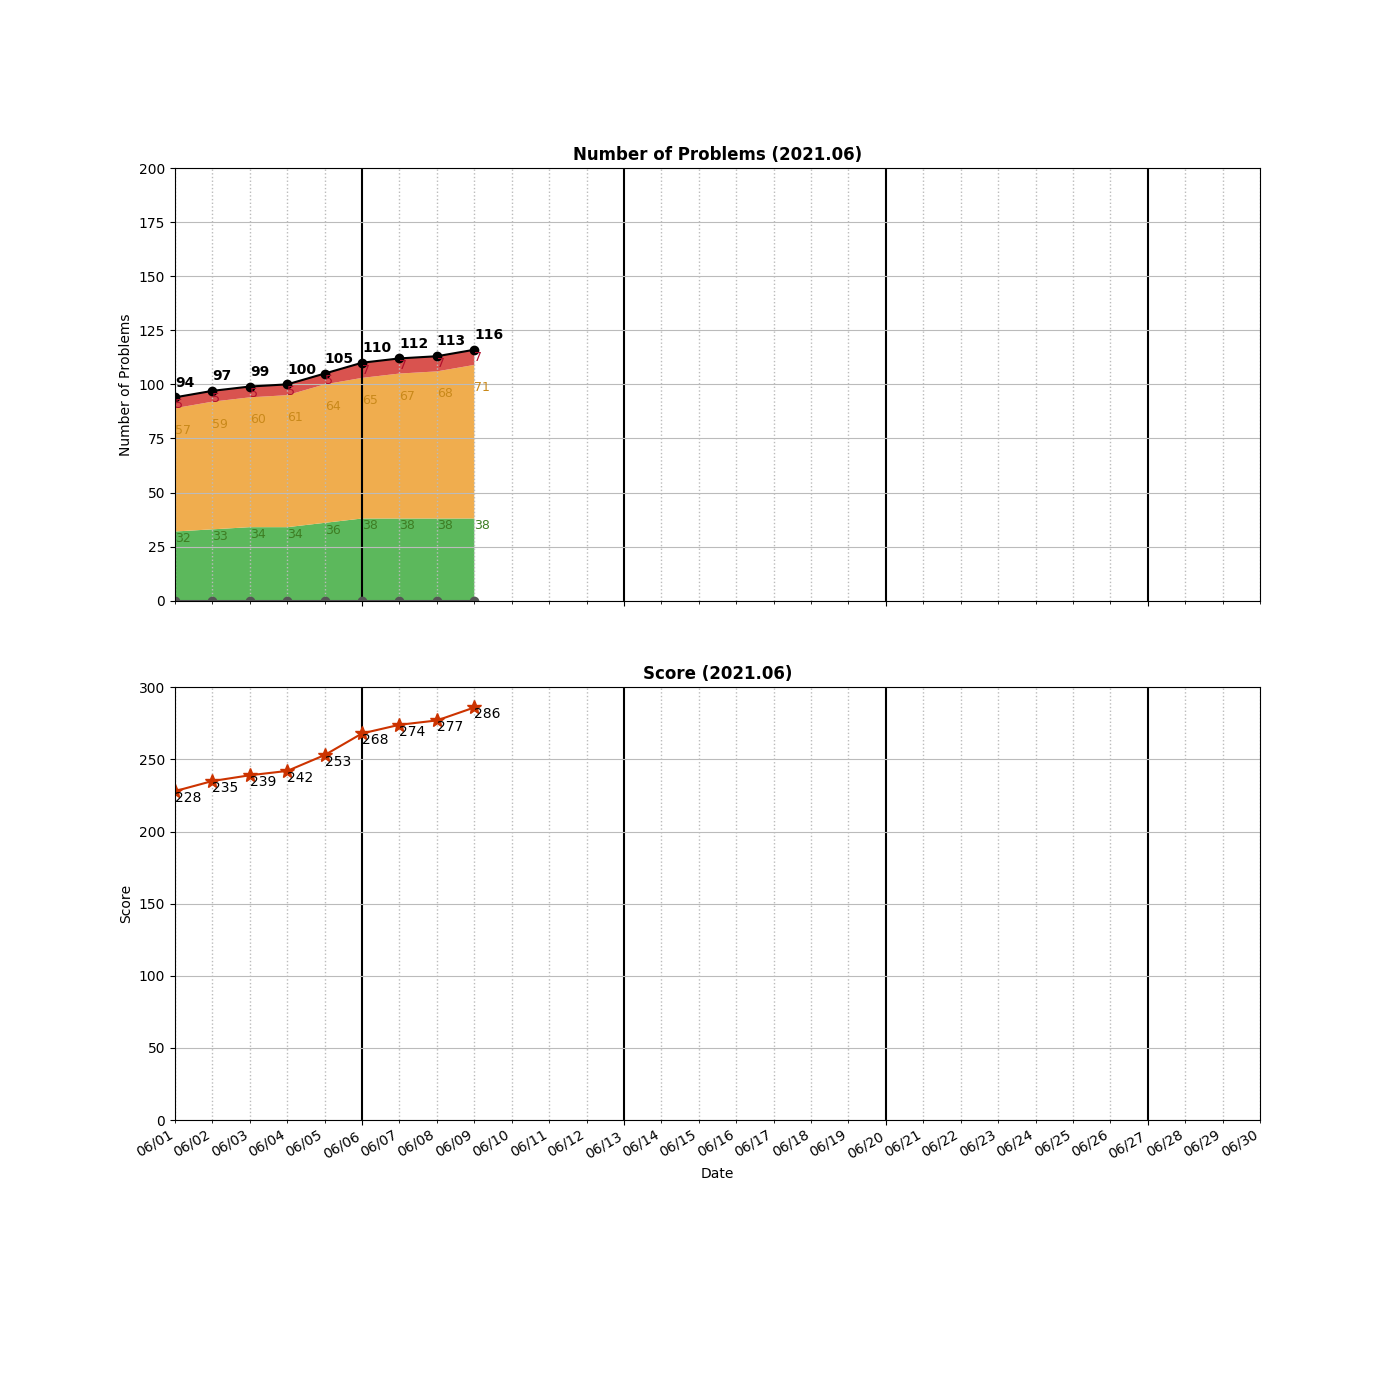
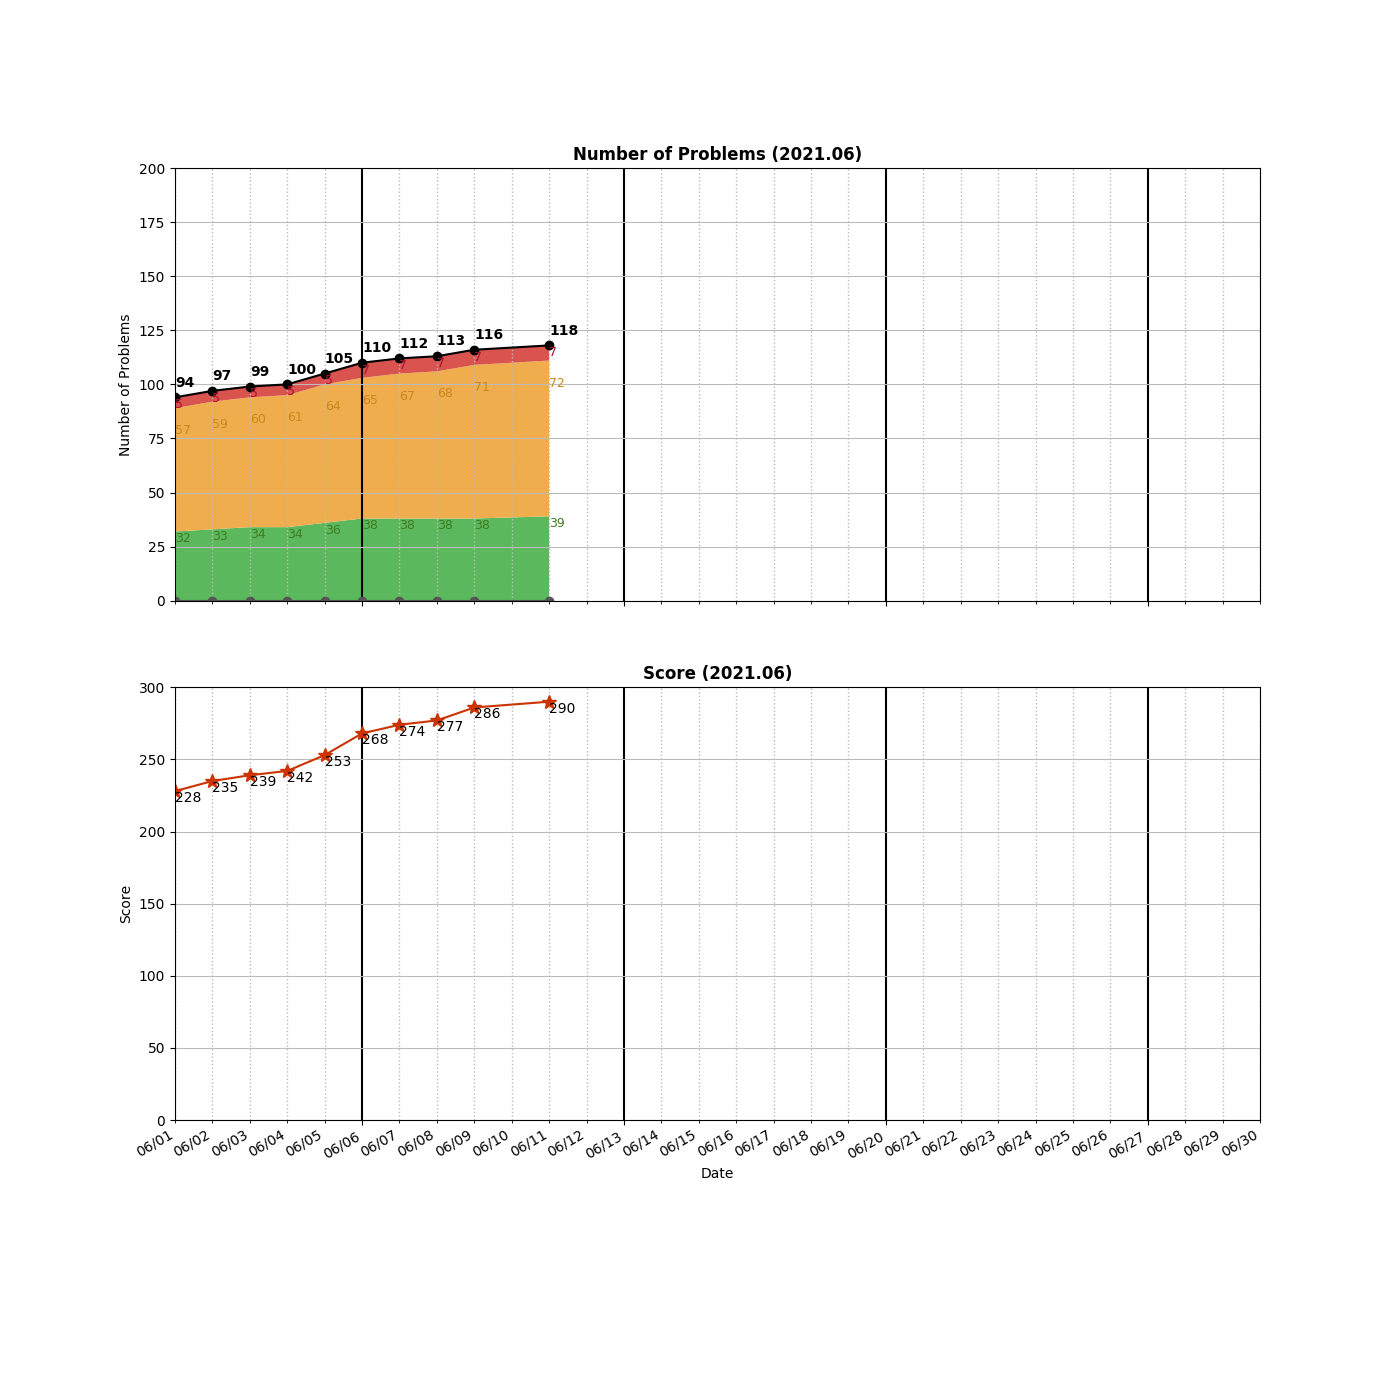
Added __0576__Out of Boundary Paths.py

Changed region(s): [[0.3379, 0.2457, 0.3993, 0.43], [0.3686, 0.4914, 0.3993, 0.5221]]

diff --git a/algo/DFS/__0200__Number of Islands.py b/algo/DFS/__0200__Number of Islands.py
@@ -1,9 +1,49 @@
 class Solution:
-
+    
     # (1) Traversal: BFS
-    # (2) Status: visited set
-    # [O(m*n), 10%][O(m*n), 36%]
+    # (2) Status: change grid to 0 after traversal
+    # [O(m*n) / O(m*n) -> 56% / 35%]
     def numIslands(self, grid: List[List[str]]) -> int:
+        print("BFS + change grid to 0 after traversal")
+        if not grid or not grid[0]:
+            return 0
+        
+        #visited = set()
+        self.count = 0
+        
+        for i in range(len(grid)):
+            for j in range(len(grid[0])):
+                if grid[i][j] == "1":
+                    #visited.add((i, j))
+                    self.bfs(grid, i, j)
+        return self.count 
+                    
+    def bfs(self, grid, i, j):
+        self.count += 1 
+        deq = collections.deque([(i, j)])
+        #print(i, j)
+        while deq:
+            cur = deq.popleft()
+            for d in [(1, 0), (-1,0), (0, 1), (0,-1)]:
+                nextI = cur[0] + d[0]
+                nextJ = cur[1] + d[1]
+                # if (nextI, nextJ) in visited:
+                #     continue
+                if not(0 <= nextI < len(grid) and 0 <= nextJ < len(grid[0])):
+                    continue
+                if grid[nextI][nextJ] != "1":
+                    continue
+                grid[nextI][nextJ] = "0"
+                #print(deq)
+                #visited.add((nextI, nextJ))
+                deq.append((nextI, nextJ)) 
+                
+    # ========================================
+    # (1) Traversal: BFS
+    # (2) Status: use visited set
+    # [O(m*n) / O(m*n) -> 5% / 8%]
+    def numIslands(self, grid: List[List[str]]) -> int:
+        print("BFS + use visited set")
         if not grid or not grid[0]:
             return 0
         
@@ -14,10 +54,10 @@ class Solution:
             for j in range(len(grid[0])):
                 if grid[i][j] == "1" and (i, j) not in visited:
                     visited.add((i, j))
-                    self.bfs(grid, i, j, visited)
+                    self.bfs2(grid, i, j, visited)
         return self.count 
                     
-    def bfs(self, grid, i, j, visited):
+    def bfs2(self, grid, i, j, visited):
         self.count += 1 
         deq = collections.deque([(i, j)])
         #print(i, j)
@@ -36,12 +76,12 @@ class Solution:
                 #print(deq)
                 visited.add((nextI, nextJ))
                 deq.append((nextI, nextJ))
-
+                                
     # ========================================
     # (1) Traversal: DFS
     # (2) Status: change 1 to 0 after visited 
     # [O(m*n), 10%]
-    def numIslands(self, grid: List[List[str]]) -> int:
+    def numIslands1(self, grid: List[List[str]]) -> int:
         if grid is None or len(grid) == 0:
             return 0
         
@@ -50,17 +90,17 @@ class Solution:
             for j in range(len(grid[0])):
                 if grid[i][j] == "1":
                     count += 1
-                    self.dfs(grid, i, j)
+                    self.dfs1(grid, i, j)
         return count
 
     
-    def dfs(self, grid, i, j):
+    def dfs1(self, grid, i, j):
         if not (0 <= i < len(grid) and 0 <= j < len(grid[0])):
             return
             
         if grid[i][j] == "1":
             grid[i][j] = "0"
-            self.dfs(grid, i+1, j)
-            self.dfs(grid, i-1, j)
-            self.dfs(grid, i, j+1)
-            self.dfs(grid, i, j-1)
+            self.dfs1(grid, i+1, j)
+            self.dfs1(grid, i-1, j)
+            self.dfs1(grid, i, j+1)
+            self.dfs1(grid, i, j-1)

diff --git a/algo/DP/__0576__Out of Boundary Paths.py b/algo/DP/__0576__Out of Boundary Paths.py
@@ -1,0 +1,24 @@
+class Solution:
+    def findPaths(self, m: int, n: int, maxMove: int, startRow: int, startColumn: int) -> int:
+        if m <= 0 or n <= 0:
+            return 0
+        memo = {}
+        return self.dfs(m, n, maxMove, startRow, startColumn, memo) % (10 ** 9 + 7)
+    
+    def dfs(self, m, n, maxMove, r, c, memo):
+        if (maxMove, r, c) in memo:
+            return memo[(maxMove, r, c)]
+        if not (0 <= r < m):
+            return 1
+        if not (0 <= c < n):
+            return 1
+        if maxMove <= 0:
+            return 0
+        
+        count = 0
+        for d in [[1,0], [-1,0], [0,1], [0,-1]]:
+            next_r = r + d[0]
+            next_c = c + d[1]
+            count += self.dfs(m, n, maxMove - 1, next_r, next_c, memo)
+        memo[(maxMove, r, c)] = count
+        return count 

diff --git a/algo/LinkedList/__0206__Reverse Linked List.py b/algo/LinkedList/__0206__Reverse Linked List.py
@@ -6,6 +6,26 @@
         
 class Solution:      
     
+    # 3 pointers, dummy node [O(n), 99%]
+    # Note: remember to set head.next to None, otherwise it will be a circle
+    def reverseList(self, head: ListNode) -> ListNode:
+        if not head or not head.next:
+            return head
+        
+        preHead = ListNode()
+        preHead.next = head
+        p1, p2, p3 = preHead, head, head.next
+        
+        while p2:
+            p2.next = p1
+            p1 = p2
+            p2 = p3
+            if p3:
+                p3 = p3.next                
+        head.next = None #<----FORGET
+        return p1
+
+
     # Iterative [O(n), 61%]
     def reverseList(self, head: ListNode) -> ListNode:
         if not head:

diff --git a/README.md b/README.md
@@ -60,7 +60,8 @@ algo
 │   ├── __0070__Climbing\ Stairs.py
 │   ├── __0120__Triangle.py
 │   ├── __0121__Best\ Time\ to\ Buy\ and\ Sell\ Stock.py
-│   └── __0322__Coin\ Change.py
+│   ├── __0322__Coin\ Change.py
+│   └── __0576__Out\ of\ Boundary\ Paths.py
 ├── DataStructure
 │   ├── __0146__LRU\ Cache.py
 │   ├── __0387__First\ Unique\ Character\ in\ a\ String.py
@@ -70,6 +71,7 @@ algo
 │   ├── __0001__Two\ Sum.py
 │   ├── __0049__Group\ Anagrams.py
 │   ├── __0287__Find\ the\ Duplicate\ Number.py
+│   ├── __0290__Word\ Pattern.py
 │   └── __0347__Top\ K\ Frequent\ Elements.py
 ├── Heap
 │   ├── __0215__Kth\ Largest\ Element\ in\ an\ Array.py
@@ -132,7 +134,7 @@ algo
     ├── __0969__Pancake\ Sorting.py
     └── __1099__Two\ Sum\ Less\ Than\ K.py
 
-15 directories, 116 files
+15 directories, 118 files
 
 =====================================
 ============= Local Repo ============
@@ -225,6 +227,7 @@ __0264__Ugly Number II.py
 __0270__Closest Binary Search Tree Value.py
 __0278__First Bad Version.py
 __0287__Find the Duplicate Number.py
+__0290__Word Pattern.py
 __0297__Serialize and Deserialize Binary Tree.py
 __0322__Coin Change.py
 __0347__Top K Frequent Elements.py
@@ -235,6 +238,7 @@ __0437__Path Sum III.py
 __0532__K-diff Pairs in an Array.py
 __0559__Maximum Depth of N-ary Tree.py
 __0560__Subarray Sum Equals K.py
+__0576__Out of Boundary Paths.py
 __0617__Merge Two Binary Trees.py
 __0658__Find K Closest Elements.py
 __0670__Maximum Swap.py
@@ -253,7 +257,7 @@ __0973__K Closest Points to Origin.py
 __1099__Two Sum Less Than K.py
 __1429__First Unique Number.py
 =====================================
-Num of Python Practice:  115
+Num of Python Practice:  117
 
 
 =====================================
@@ -348,6 +352,7 @@ Num of Python Practice:  115
  0270 Closest Binary Search Tree Value
  0278 First Bad Version
  0287 Find the Duplicate Number
+ 0290 Word Pattern
  0297 Serialize and Deserialize Binary Tree
  0322 Coin Change
  0347 Top K Frequent Elements
@@ -358,6 +363,7 @@ Num of Python Practice:  115
  0532 K-diff Pairs in an Array
  0559 Maximum Depth of N-ary Tree
  0560 Subarray Sum Equals K
+ 0576 Out of Boundary Paths
  0617 Merge Two Binary Trees
  0658 Find K Closest Elements
  0670 Maximum Swap
@@ -376,11 +382,11 @@ Num of Python Practice:  115
  1099 Two Sum Less Than K
  1429 First Unique Number
 =====================================
-Solved / Total (Easy)  :   38 /  496
-Solved / Total (Medium):   71 /  997
+Solved / Total (Easy)  :   39 /  497
+Solved / Total (Medium):   72 /  998
 Solved / Total (Hard)  :    7 /  396
-Solved / Total (All)   :  116 / 1889
-Total Score            :  286
+Solved / Total (All)   :  118 / 1891
+Total Score            :  290
 =====================================
 
 ```
